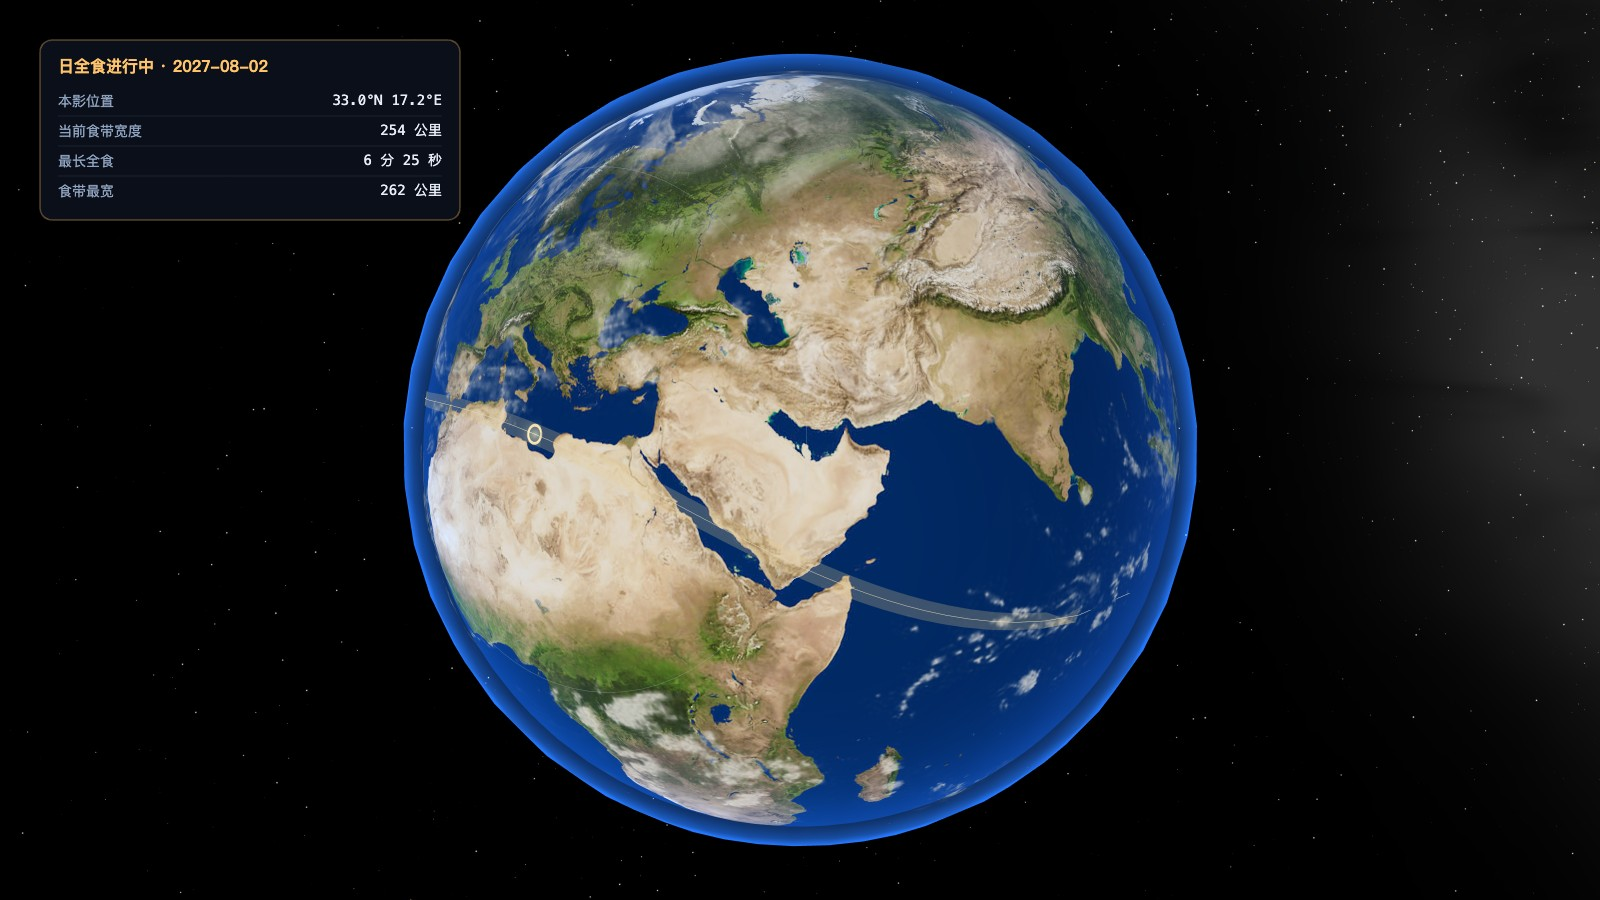
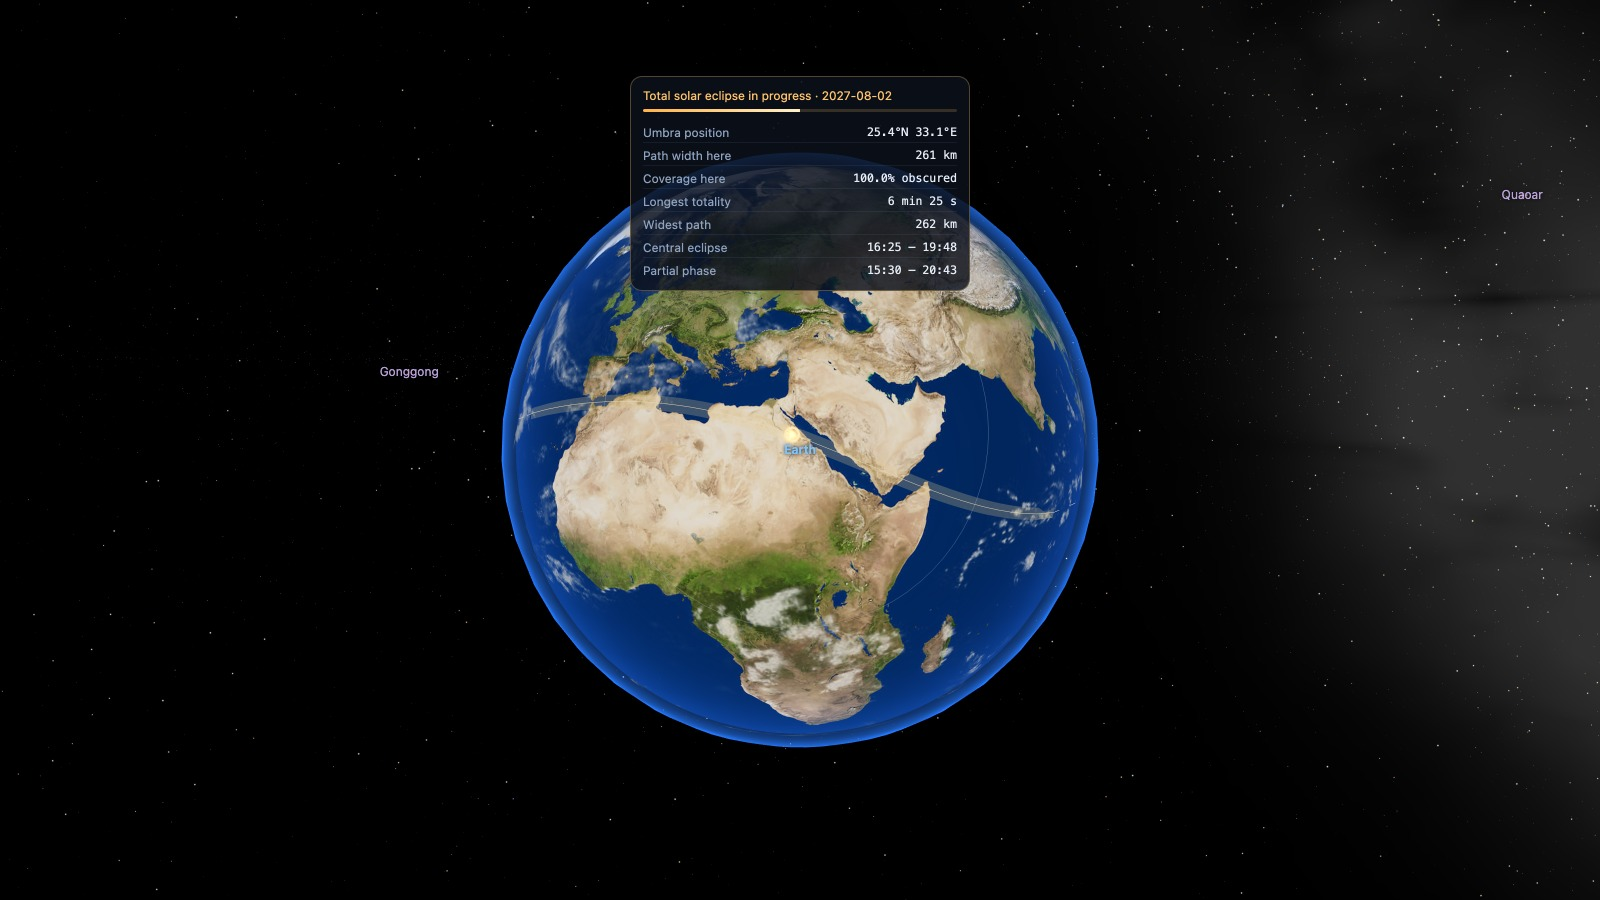
docs: reshoot the screenshots in daylight, one set per language
Every planet shot was taken from wherever the camera happened to be, which
mostly meant the night side: the Saturn hero was a dark crescent and the
dawn shot was almost entirely black. Aim each one from near the sub-solar
direction instead, so the disc is 75-93% lit and the surface detail that
the textures were downloaded for is actually visible. The Saturn shot also
moves to 2036, when the rings are wide open.

The English README was still showing a Chinese interface. Shoot the set
twice from the same scripted camera positions, English into docs/images
and Chinese into docs/images/zh, so each README shows its own language.

diff --git a/README.zh-CN.md b/README.zh-CN.md
@@ -15,7 +15,7 @@
 
 [English](README.md) · [快速开始](#快速开始) · [精度](#精度与数据来源) · [项目结构](#项目结构)
 
-<img src="docs/images/hero.jpg" alt="土星、光环系统与卫星" width="100%">
+<img src="docs/images/zh/hero.jpg" alt="阳光下的土星，光环大开，卫星标注在侧" width="100%">
 
 </div>
 
@@ -34,14 +34,14 @@
 木星特洛伊群、柯伊伯带、离散盘和奥尔特云内缘标记。可以在**真实比例**（大部分是空旷的
 虚空，本来就是如此）和**紧凑视图**之间切换；每一类天体都能单独开关显示。
 
-<img src="docs/images/solar-system.jpg" alt="内太阳系与小行星带" width="100%">
+<img src="docs/images/zh/solar-system.jpg" alt="内太阳系与小行星带" width="100%">
 
 ### 任意时刻的真实位置
 
 位置和自转角来自星历计算，不是动画循环。时间可正放、倒放，速度从实时到「10 年/秒」
 共十档，也可以直接跳到某个日期。一旦离开行星根数的有效区间，时间栏会明确提示。
 
-<img src="docs/images/jupiter.jpg" alt="木星的云带与木卫一、木卫二" width="100%">
+<img src="docs/images/zh/jupiter.jpg" alt="木星的云带与大红斑，伽利略卫星在各自轨道上" width="100%">
 
 ### 日出日落与当地天象
 
@@ -49,7 +49,7 @@
 正确标出。其他天体回答同样的问题：它的一个太阳日有多长（火星 24.66 小时、月球约
 29.5 个地球日、水星 176 个地球日），以及站在它上面时太阳下一次何时升起。
 
-<img src="docs/images/earth-night.jpg" alt="地球晨昏线、夜面城市灯光与大西洋上的太阳反光" width="100%">
+<img src="docs/images/zh/earth-night.jpg" alt="白昼中的非洲与印度洋，晨昏线与亚洲一侧的城市灯光" width="100%">
 
 *真实影像贴图是可选的。有它时，地球会带上日面影像、云层、夜面城市灯光，以及能反射
 阳光的海面；没有它时，所有天体都回退到程序化生成的表面。*
@@ -61,7 +61,7 @@
 能看到偏食。表面的明暗由真实的视圆面几何逐像素计算，因此无论场景用什么比例绘制，
 影子的大小都是对的——同一套代码也负责木卫一投在木星上的影子。
 
-<img src="docs/images/eclipse-track.jpg" alt="2027 年日全食横穿北非的食带，本影位于利比亚上空" width="100%">
+<img src="docs/images/zh/eclipse-track.jpg" alt="2027 年日全食横穿北非的食带，本影位于埃及上空" width="100%">
 
 ### 站到天体表面
 
@@ -69,7 +69,7 @@
 星星随太阳升高而隐没，视图会切换到真实比例，让日月的视直径与实际相同——你可以亲眼
 看着刚刚从历表里读到的那次日出真的发生。
 
-<img src="docs/images/sunrise.jpg" alt="从地球表面看到的黎明，木星与月球挂在地平线之上" width="100%">
+<img src="docs/images/zh/sunrise.jpg" alt="从地球表面看到的黎明，木星与月球挂在地平线之上" width="100%">
 
 ### 桌面与移动端
 

diff --git a/README.md b/README.md
@@ -16,7 +16,7 @@ the next eclipse, or the track its shadow will sweep across the ground.
 
 [中文说明](README.zh-CN.md) · [Quick start](#quick-start) · [Accuracy](#accuracy-and-sources) · [Architecture](#architecture)
 
-<img src="docs/images/hero.jpg" alt="Saturn, its ring system and moons rendered in Solar Explorer" width="100%">
+<img src="docs/images/hero.jpg" alt="Saturn in full sunlight, its rings wide open and its moons labelled" width="100%">
 
 </div>
 
@@ -48,7 +48,7 @@ Run time forwards or backwards at ten speeds from real time to a decade a second
 or jump straight to a date. The clock says so when you leave the window the planetary
 element set was fitted to.
 
-<img src="docs/images/jupiter.jpg" alt="Jupiter's cloud bands with Io and Europa on their orbits" width="100%">
+<img src="docs/images/jupiter.jpg" alt="Jupiter's belts and Great Red Spot, with the Galilean moons on their orbits" width="100%">
 
 ### Sunrise, sunset and the local sky
 
@@ -58,7 +58,7 @@ world answers the same question for itself: how long its solar day is (24.66 h o
 about 29.5 Earth days on the Moon, 176 on Mercury) and when the Sun next rises where
 you are standing on it.
 
-<img src="docs/images/earth-night.jpg" alt="The Earth at its terminator, city lights on the night side and sunlight glinting off the Atlantic" width="100%">
+<img src="docs/images/earth-night.jpg" alt="Africa and the Indian Ocean in daylight, with the terminator and city lights across Asia" width="100%">
 
 *Photographic maps are optional. With them the Earth carries its day map, cloud layer,
 city lights on the night side and an ocean that catches the Sun; without them every body
@@ -73,7 +73,7 @@ shows who sees a partial eclipse. Shadow shading is computed per fragment from t
 angular geometry, so it is the right size whatever scale the scene is drawn at — the
 same code puts Io's shadow on Jupiter.
 
-<img src="docs/images/eclipse-track.jpg" alt="The 2027 total solar eclipse track across North Africa with the umbra over Libya" width="100%">
+<img src="docs/images/eclipse-track.jpg" alt="The 2027 total solar eclipse track across North Africa with the umbra over Egypt" width="100%">
 
 ### Stand on the surface
 
